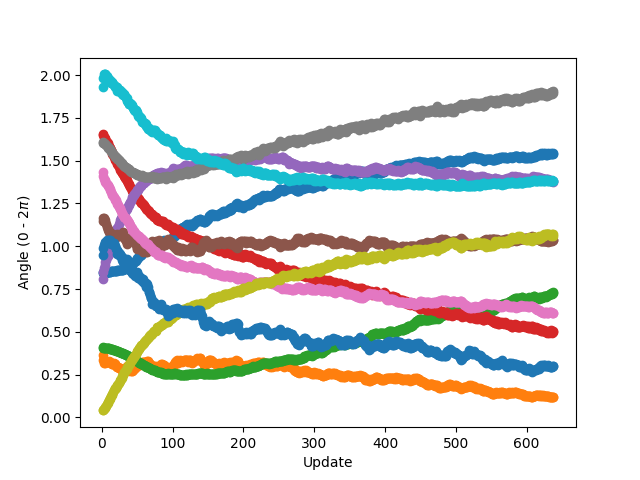
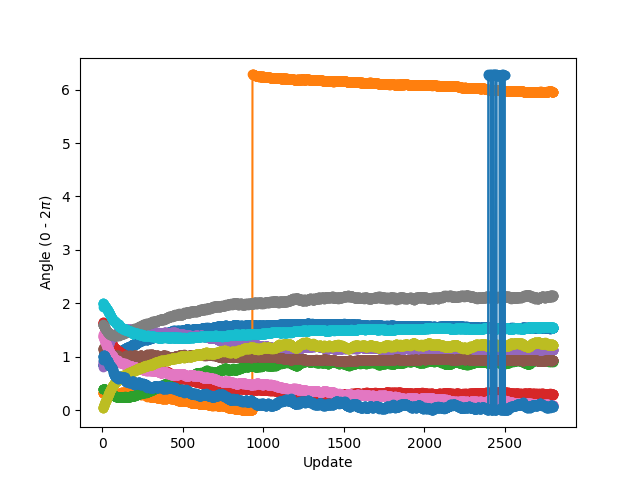
updates

diff --git a/printNetwork.py b/printNetwork.py
@@ -1,0 +1,82 @@
+import numpy as np
+import matplotlib.pyplot as plt
+from qiskit import *
+from datasets.hitgraphs import get_datasets
+import sys, time, datetime
+import multiprocessing
+
+def TTN_edge_forward(edge,theta_learn):
+	# Takes the input and learning variables and applies the
+	# network to obtain the output
+	q       = QuantumRegister(len(edge))
+	c       = ClassicalRegister(1)
+	circuit = QuantumCircuit(q,c)
+	# STATE PREPARATION
+	for i in range(len(edge)):
+		circuit.ry(edge[i],q[i])
+	# APPLY forward sequence
+	circuit.ry(theta_learn[0],q[0])
+	circuit.ry(theta_learn[1],q[1])
+	circuit.cx(q[0],q[1])
+	circuit.ry(theta_learn[2],q[2])
+	circuit.ry(theta_learn[3],q[3])
+	circuit.cx(q[2],q[3])
+	circuit.ry(theta_learn[4],q[4])
+	circuit.ry(theta_learn[5],q[5])
+	circuit.cx(q[5],q[4]) # reverse the order
+	circuit.ry(theta_learn[6],q[1])
+	circuit.ry(theta_learn[7],q[3])
+	circuit.cx(q[1],q[3])
+	circuit.ry(theta_learn[8],q[3])
+	circuit.ry(theta_learn[9],q[4])
+	circuit.cx(q[3],q[4])
+	circuit.ry(theta_learn[10],q[4])
+	# Qasm Backend
+	circuit.measure(q[4],c)
+	circuit.draw(filename='png/TTNcircuit.png')
+	backend = Aer.get_backend('qasm_simulator')
+	result = execute(circuit, backend, shots=1000).result()
+	counts = result.get_counts(circuit)
+	out    = 0
+	for key in counts:
+		if key=='1':
+			out = counts[key]/1000
+	return(out)
+
+def map2angle(B):
+	# Maps input features to 0-2PI
+	r_min     = 0.
+	r_max     = 1.
+	phi_min   = -1.
+	phi_max   = 1.
+	z_min     = 0.
+	z_max     = 1.2
+	B[:,0] =  (B[:,0]-r_min)/(r_max-r_min) * 2 * np.pi 
+	B[:,1] =  (B[:,1]-phi_min)/(phi_max-phi_min) * 2 * np.pi 
+	B[:,2] =  (B[:,2]-z_min)/(z_max-z_min) * 2 * np.pi 
+	B[:,3] =  (B[:,3]-r_min)/(r_max-r_min) * 2 * np.pi 
+	B[:,4] =  (B[:,4]-phi_min)/(phi_max-phi_min) * 2 * np.pi 
+	B[:,5] =  (B[:,5]-z_min)/(z_max-z_min) * 2 * np.pi 
+	return B
+def preprocess(data):
+	X,Ro,Ri,y = data
+	X[:,2] = np.abs(X[:,2]) # correction for negative z
+	bo    = np.dot(Ro.T, X)
+	bi    = np.dot(Ri.T, X)
+	B     = np.concatenate((bo,bi),axis=1)
+	return map2angle(B), y
+############################################################################################
+##### MAIN ######
+if __name__ == '__main__':
+	n_param = 11
+	theta_learn = np.random.rand(n_param)*np.pi*2 
+	input_dir   = 'data/hitgraphs_big' 
+	n_files     = 2
+	n_valid     = 1
+	n_train     = 1
+	train_data, valid_data = get_datasets(input_dir, n_train, n_valid)
+	B, y = preprocess(train_data[0])
+	TTN_edge_forward(B[0],theta_learn)
+	
+
+	

diff --git a/QuantumEdgeNetwork.py b/QuantumEdgeNetwork.py
@@ -75,12 +75,12 @@ def map2angle(B):
 	phi_max   = 1.
 	z_min     = 0.
 	z_max     = 1.2
-	B[:,0] =  (B[:,0]-r_min)/(r_max-r_min) 
-	B[:,1] =  (B[:,1]-phi_min)/(phi_max-phi_min) 
-	B[:,2] =  (B[:,2]-z_min)/(z_max-z_min) 
-	B[:,3] =  (B[:,3]-r_min)/(r_max-r_min) 
-	B[:,4] =  (B[:,4]-phi_min)/(phi_max-phi_min) 
-	B[:,5] =  (B[:,5]-z_min)/(z_max-z_min)
+	B[:,0] =  (B[:,0]-r_min)/(r_max-r_min) * 2 * np.pi 
+	B[:,1] =  (B[:,1]-phi_min)/(phi_max-phi_min) * 2 * np.pi 
+	B[:,2] =  (B[:,2]-z_min)/(z_max-z_min) * 2 * np.pi 
+	B[:,3] =  (B[:,3]-r_min)/(r_max-r_min) * 2 * np.pi 
+	B[:,4] =  (B[:,4]-phi_min)/(phi_max-phi_min) * 2 * np.pi 
+	B[:,5] =  (B[:,5]-z_min)/(z_max-z_min)* 2 * np.pi 
 	return B
 def MSE(output,label):
 	return (output-label)**2

diff --git a/plot_statistics.py b/plot_statistics.py
@@ -22,6 +22,15 @@ plt.ylabel('Loss')
 plt.savefig(png_location+'statistics_loss.png')
 
 plt.clf()   
+interval = 50
+x = [i*interval for i  in range(len(loss)//interval)]
+average_loss = [sum(loss[i*interval:(i+1)*interval])/interval for i in range(len(x))]
+plt.plot(x,average_loss,marker='o')
+plt.xlabel('Update')
+plt.ylabel('Loss')
+plt.savefig(png_location+'statistics_average_loss.png')
+
+plt.clf()   
 x = [i*50 for i  in range(len(valid))]
 plt.plot(x,valid,marker='o')
 plt.xlabel('Update')
